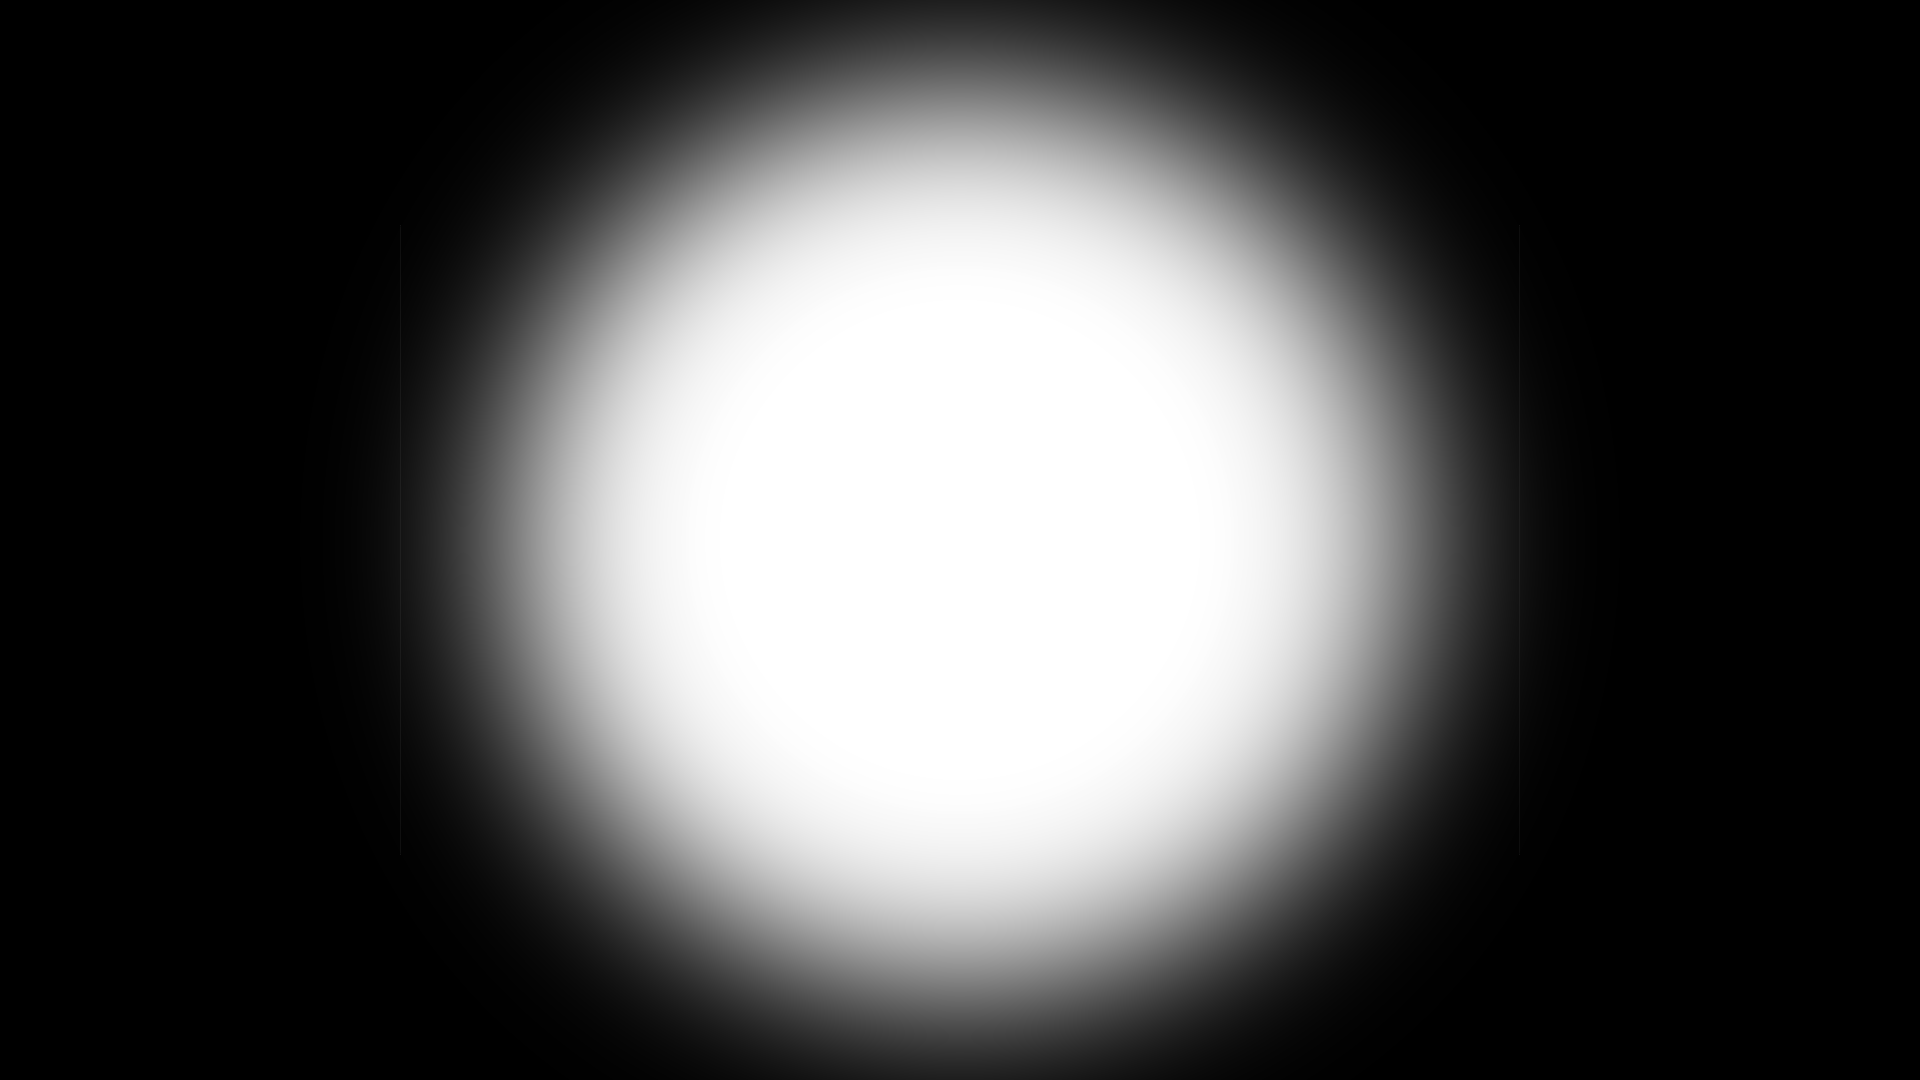
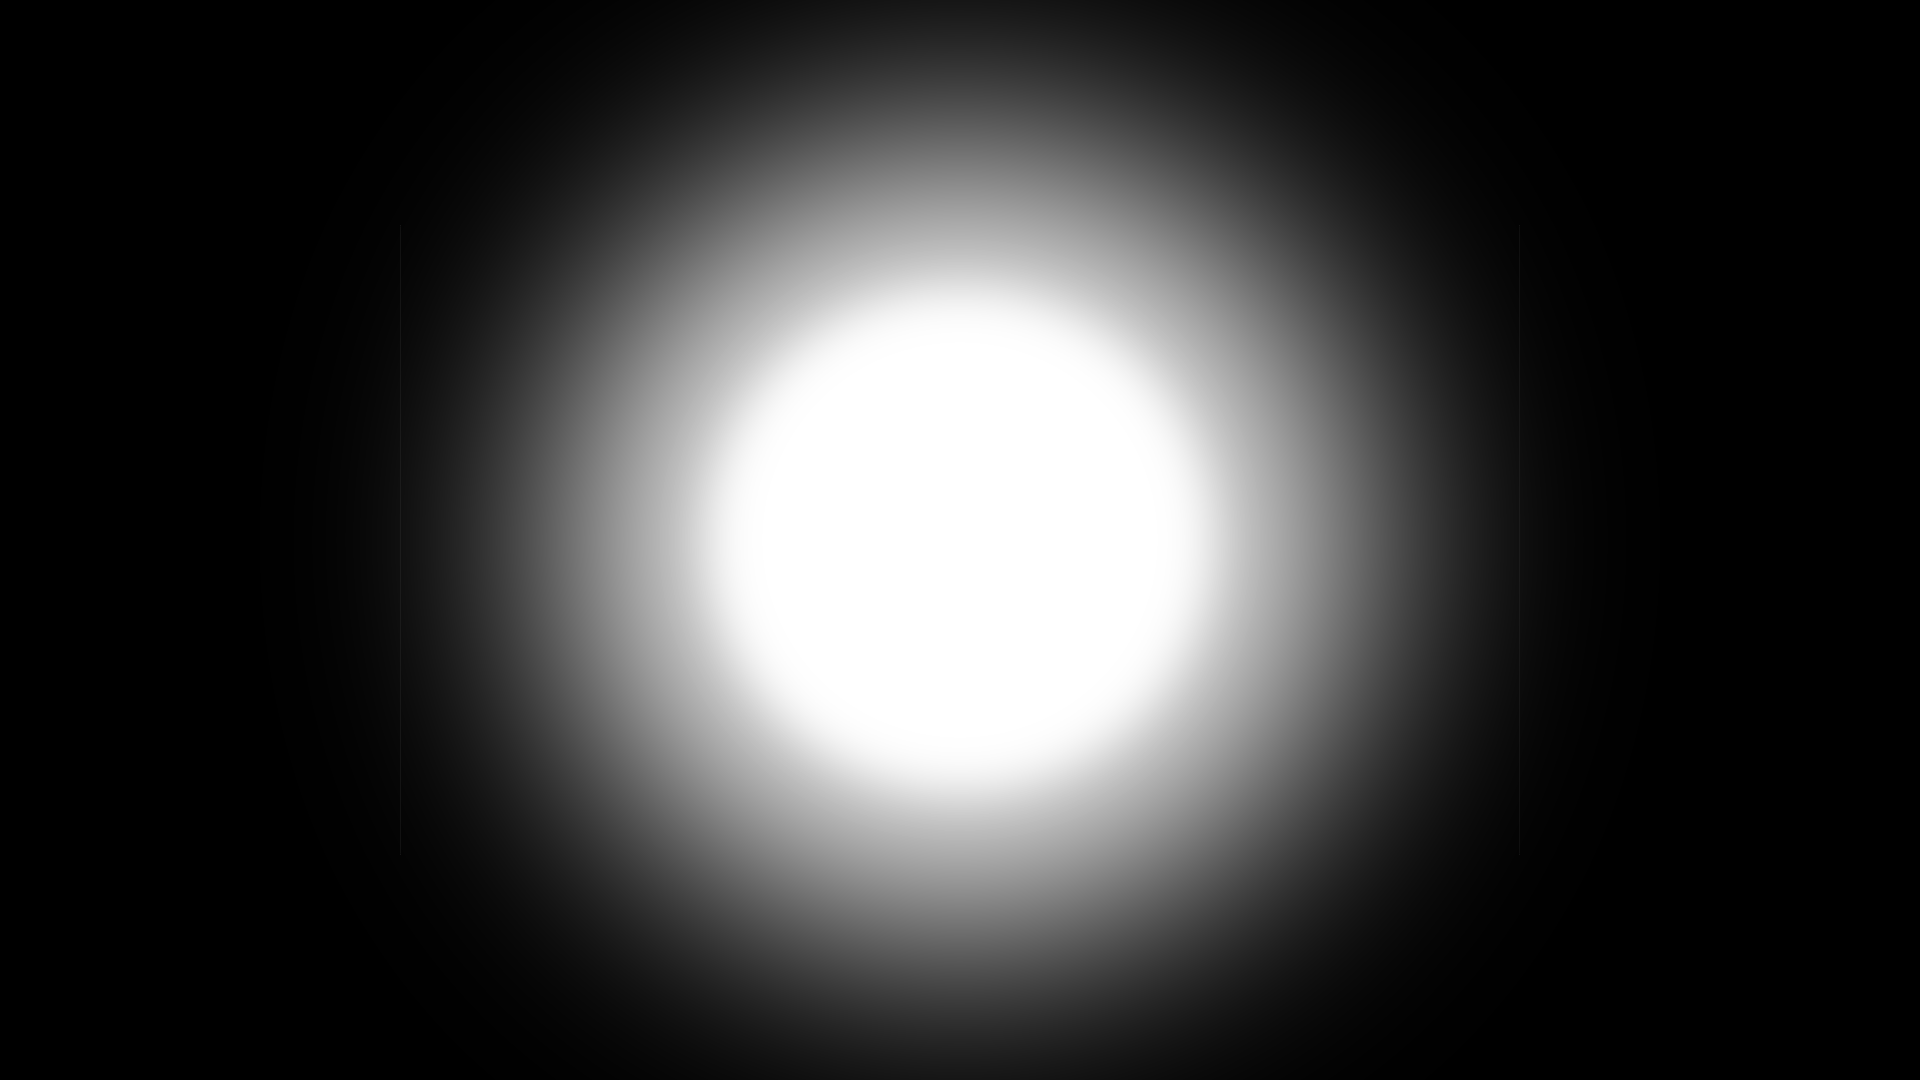
update

Changed region(s): [[0.2188, 0.0306, 0.7812, 0.9778]]

diff --git a/FyamaWinter14/src/AlphaMask.cpp b/FyamaWinter14/src/AlphaMask.cpp
@@ -13,15 +13,16 @@ AlphaMask::AlphaMask(){
     maskShader.load("composite");
     maskShader.begin();
     
-    maskShader.setUniformTexture("Tex1", mask.getTextureReference(), 1);
-    maskShader.end();
-    
     ofApp *app = ((ofApp*)ofGetAppPtr());
     srcTex = app->blackmagic->colorTexture;
+    
+    maskShader.setUniformTexture("Tex1", mask.getTextureReference(), 1);
+    maskShader.end();
 }
 
 void AlphaMask::update(){
     ofApp *app = ((ofApp*)ofGetAppPtr());
+    
     srcTex = app->blackmagic->colorTexture;
     maskShader.setUniformTexture("Tex0", srcTex, 0);
 }
@@ -31,6 +32,7 @@ void AlphaMask::draw(){
     srcTex = app->blackmagic->colorTexture;
 
     fbo.begin();
+    ofClear(0, 0, 0);
     maskShader.begin();
     
     glActiveTexture(GL_TEXTURE0_ARB);
@@ -42,24 +44,26 @@ void AlphaMask::draw(){
     
     glBegin(GL_QUADS);
     
-    float maskOffset = 0;
+    float maskOffsetX =  ofMap(app->oscControl->controlVal[5], 0, 127, -mask.getWidth(), mask.getWidth() / 3.0);
+    float maskOffsetY =  ofMap(app->oscControl->controlVal[5], 0, 127, -mask.getHeight(), mask.getHeight() / 3.0);
+    
     glMultiTexCoord2d(GL_TEXTURE0_ARB, 0, 0);
-    glMultiTexCoord2d(GL_TEXTURE1_ARB, 0, maskOffset);
-    glVertex2f( 0, 0);
+    glMultiTexCoord2d(GL_TEXTURE1_ARB, maskOffsetX, maskOffsetY);
+    glVertex2f(0, 0);
     
     // glMultiTexCoord2d(GL_TEXTURE0_ARB, topLayer.getWidth(), 0);
     glMultiTexCoord2d(GL_TEXTURE0_ARB, srcTex.getWidth(), 0);
-    glMultiTexCoord2d(GL_TEXTURE1_ARB, mask.getWidth(), 0);
-    glVertex2f( ofGetWidth(), 0);
+    glMultiTexCoord2d(GL_TEXTURE1_ARB, mask.getWidth() - maskOffsetX, maskOffsetY);
+    glVertex2f(ofGetWidth(), 0);
     
     // glMultiTexCoord2d(GL_TEXTURE0_ARB, topLayer.getWidth(), topLayer.getHeight());
     glMultiTexCoord2d(GL_TEXTURE0_ARB, srcTex.getWidth(), srcTex.getHeight());
-    glMultiTexCoord2d(GL_TEXTURE1_ARB, mask.getWidth(), mask.getHeight());
+    glMultiTexCoord2d(GL_TEXTURE1_ARB, mask.getWidth() - maskOffsetX, mask.getHeight() - maskOffsetY);
     glVertex2f( ofGetWidth(), ofGetHeight());
     
     // glMultiTexCoord2d(GL_TEXTURE0_ARB, 0, topLayer.getHeight());
     glMultiTexCoord2d(GL_TEXTURE0_ARB, 0, srcTex.getHeight());
-    glMultiTexCoord2d(GL_TEXTURE1_ARB, 0, mask.getHeight());
+    glMultiTexCoord2d(GL_TEXTURE1_ARB, maskOffsetX, mask.getHeight() - maskOffsetY);
     glVertex2f(0, ofGetHeight());
     
     glEnd();
@@ -81,7 +85,7 @@ void AlphaMask::draw(){
     ofPushMatrix();
     ofRect(0, 0, 1920, 224);
     ofTranslate(0, 630 + 224);
-    ofRect(0, 0, 1920, 224);
+    ofRect(0, 0, 1920, 300);
     ofPopMatrix();
 
 }
